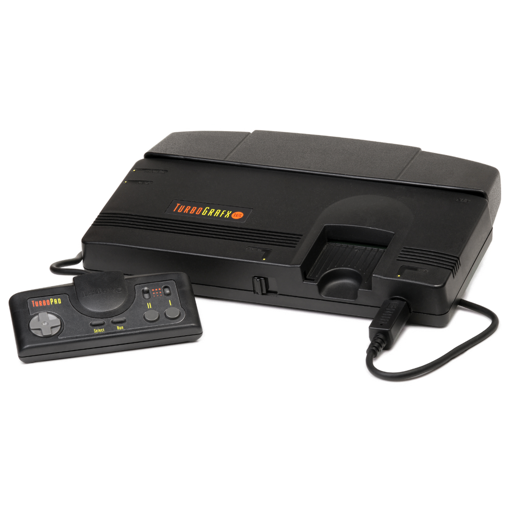
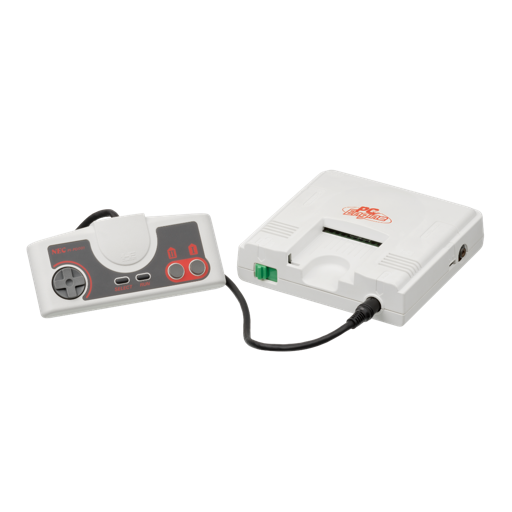
Style Cover Flow actions and rename over the dimmed game
The tabbed actions menu and rename keyboard clashed with Cover Flow's
minimal look. Render the action rows over a dimmed snapshot of the game
stage with the platinum selection (no footer; X toggles it closed), and
route the Display Name rename through cat_keyboard_ex with the same dimmed
backdrop and CF palette. Add PORTS, PCE and SEGACD system icons.

diff --git a/cmd/jawaka-launcher/main.c b/cmd/jawaka-launcher/main.c
@@ -3957,9 +3957,10 @@ static void jw__coverflow_frame_log(uint32_t frame_start_ms, uint32_t render_don
     }
 }
 
-static void jw__render_coverflow_games(jw_launcher_state *state) {
-    bool frame_log = jw__coverflow_frame_log_enabled();
-    uint32_t frame_start_ms = frame_log ? SDL_GetTicks() : 0;
+/* Draw the Cover Flow games stage — clear, card carousel, and the centered game
+   title — WITHOUT presenting. Shared by the games view and the actions overlay
+   (which dims this and floats the action list on top). */
+static void jw__draw_coverflow_games_stage(jw_launcher_state *state) {
     SDL_Renderer *ren = cat_get_renderer();
     int sw = cat_get_screen_width();
 
@@ -3968,9 +3969,6 @@ static void jw__render_coverflow_games(jw_launcher_state *state) {
 
     int count = state->game_count;
     if (count <= 0) {
-        uint32_t render_done_ms = frame_log ? SDL_GetTicks() : 0;
-        cat_present();
-        if (frame_log) jw__coverflow_frame_log(frame_start_ms, render_done_ms);
         return;
     }
     int cur = state->game_list.cursor;
@@ -3993,6 +3991,13 @@ static void jw__render_coverflow_games(jw_launcher_state *state) {
         if (nw > maxw) cat_draw_text_ellipsized(font, title, tx, ty, white, maxw);
         else           cat_draw_text(font, title, tx, ty, white);
     }
+}
+
+static void jw__render_coverflow_games(jw_launcher_state *state) {
+    bool frame_log = jw__coverflow_frame_log_enabled();
+    uint32_t frame_start_ms = frame_log ? SDL_GetTicks() : 0;
+
+    jw__draw_coverflow_games_stage(state);
 
     uint32_t render_done_ms = frame_log ? SDL_GetTicks() : 0;
     cat_present();
@@ -4831,7 +4836,84 @@ static int jw__actions_header_h(void) {
     return CAT_DS(34);
 }
 
+/* Cover Flow styling for the game actions menu. The tabbed box-model panel
+   clashes with Cover Flow's minimal look, so render the same action rows over
+   the near-black CF backdrop with the platinum-gray selection — matching the CF
+   search + keyboard. Full functionality, CF chrome. */
+static void jw__render_actions_cf(jw_launcher_state *state) {
+    SDL_Renderer *r = cat_get_renderer();
+    int sw = cat_get_screen_width();
+    int sh = cat_get_screen_height();
+    cat_draw_color white   = { 236, 238, 240, 255 };
+    cat_draw_color dim     = { 150, 154, 160, 255 };
+    cat_draw_color sel     = kCfSelect;
+    cat_draw_color seltext = { 12, 14, 18, 255 };
+    cat_draw_color selval  = { 58, 64, 72, 255 };
+
+    /* Backdrop: the live Cover Flow game stage, dimmed — the menu floats over the
+       game rather than replacing it. */
+    if (state->action_scope == JW_ACTION_GAME) {
+        jw__draw_coverflow_games_stage(state);
+    } else {
+        SDL_SetRenderDrawColor(r, 6, 7, 9, 255);
+        SDL_RenderClear(r);
+    }
+    SDL_SetRenderDrawBlendMode(r, SDL_BLENDMODE_BLEND);
+    SDL_SetRenderDrawColor(r, 0, 0, 0, 172);
+    SDL_RenderFillRect(r, NULL);
+
+    TTF_Font *small = cat_get_font(CAT_FONT_SMALL);
+    TTF_Font *body  = cat_get_font(CAT_FONT_MEDIUM);
+    TTF_Font *large = cat_get_font(CAT_FONT_LARGE);
+
+    int n = state->action_row_count;
+    if (n > 0) {
+        int cur = state->action_list.cursor;
+        if (cur < 0) cur = 0;
+        if (cur >= n) cur = n - 1;
+
+        int row_h   = TTF_FontHeight(body) + CAT_S(16);
+        int cell_h  = row_h - CAT_S(6);
+        int col_w   = sw - CAT_S(72);
+        int col_x   = (sw - col_w) / 2;
+        int top     = CAT_S(12) + TTF_FontHeight(large) + CAT_S(16);
+        int start_y = top + ((sh - top) - n * row_h) / 2;
+        if (start_y < top) start_y = top;
+
+        int val_w = col_w * 44 / 100;
+        int ttl_w = col_w - val_w - CAT_S(20);
+
+        for (int i = 0; i < n; i++) {
+            char title[96], value[160];
+            jw__action_row_strings(state, state->action_rows[i],
+                                   title, sizeof(title), value, sizeof(value));
+            bool s  = (i == cur);
+            int  ry = start_y + i * row_h;
+            if (s) {
+                cat_draw_rounded_rect(col_x - CAT_S(14), ry,
+                                      col_w + CAT_S(28), cell_h, CAT_S(8), sel);
+            }
+            int text_y = ry + (cell_h - TTF_FontHeight(body)) / 2;
+            cat_draw_text_ellipsized(body, title, col_x, text_y,
+                                     s ? seltext : white, ttl_w);
+            if (value[0]) {
+                int vw = cat_measure_text(small, value);
+                int vx = col_x + col_w - (vw < val_w ? vw : val_w);
+                int vy = ry + (cell_h - TTF_FontHeight(small)) / 2;
+                cat_draw_text_ellipsized(small, value, vx, vy,
+                                         s ? selval : dim, val_w);
+            }
+        }
+    }
+
+    cat_present();
+}
+
 static void jw__render_actions(const jw_launcher_state *state) {
+    if (cat_get_stylesheet()->launcher.layout == CAT_LAUNCHER_COVERFLOW) {
+        jw__render_actions_cf((jw_launcher_state *)state);
+        return;
+    }
     cat_clear_screen();
 
     ap_theme *theme = cat_get_theme();
@@ -6229,9 +6311,59 @@ static void jw__edit_action_display_name(const char *db_path,
         ? state->action_system_display
         : state->action_game.name;
     cat_keyboard_result result;
-    int rc = cat_keyboard(current,
+
+    /* Cover Flow: float the keyboard over a dimmed snapshot of the game stage,
+       dressed in the platinum CF palette — matching the CF actions overlay.
+       Other layouts fall through to the standard themed keyboard. */
+    SDL_Texture *cf_backdrop = NULL;
+    cat_theme *cf_theme = NULL;
+    cat_draw_color sv_hl = {0}, sv_hltxt = {0}, sv_accent = {0}, sv_hint = {0};
+    if (cat_get_stylesheet()->launcher.layout == CAT_LAUNCHER_COVERFLOW) {
+        SDL_Renderer *ren = cat_get_renderer();
+        int sw = cat_get_screen_width();
+        int sh = cat_get_screen_height();
+        cf_backdrop = SDL_CreateTexture(ren, SDL_PIXELFORMAT_RGBA8888,
+                                        SDL_TEXTUREACCESS_TARGET, sw, sh);
+        if (cf_backdrop) {
+            SDL_SetRenderTarget(ren, cf_backdrop);
+            if (state->action_scope == JW_ACTION_GAME) {
+                jw__draw_coverflow_games_stage(state);
+            } else {
+                SDL_SetRenderDrawColor(ren, 6, 7, 9, 255);
+                SDL_RenderClear(ren);
+            }
+            SDL_SetRenderDrawBlendMode(ren, SDL_BLENDMODE_BLEND);
+            SDL_SetRenderDrawColor(ren, 0, 0, 0, 172);
+            SDL_RenderFillRect(ren, NULL);
+            SDL_SetRenderTarget(ren, NULL);
+
+            cf_theme  = cat_get_theme();
+            sv_hl     = cf_theme->highlight;
+            sv_hltxt  = cf_theme->highlighted_text;
+            sv_accent = cf_theme->accent;
+            sv_hint   = cf_theme->hint;
+            cat_draw_color cf_sel     = kCfSelect;               /* selected key + input pill */
+            cat_draw_color cf_seltext = {  12,  14,  18, 255 };  /* dark text on the platinum pill */
+            cat_draw_color cf_keybg   = {  30,  34,  42, 255 };  /* unselected key bg */
+            cat_draw_color cf_keytxt  = { 236, 238, 240, 255 };  /* unselected key text */
+            cf_theme->highlight        = cf_sel;
+            cf_theme->highlighted_text = cf_seltext;
+            cf_theme->accent           = cf_keybg;
+            cf_theme->hint             = cf_keytxt;
+        }
+    }
+
+    int rc = cat_keyboard_ex(current,
                           "Start: Confirm\nY: Cancel\nLeave empty to reset",
-                          CAT_KB_GENERAL, &result);
+                          CAT_KB_GENERAL, cf_backdrop, &result);
+
+    if (cf_theme) {
+        cf_theme->highlight        = sv_hl;
+        cf_theme->highlighted_text = sv_hltxt;
+        cf_theme->accent           = sv_accent;
+        cf_theme->hint             = sv_hint;
+    }
+    if (cf_backdrop) SDL_DestroyTexture(cf_backdrop);
     if (rc == CAT_OK) {
         if (result.text[0]) {
             int write_rc = state->action_scope == JW_ACTION_SYSTEM
@@ -6442,6 +6574,7 @@ static void jw__handle_actions_input(const char *socket_path, const char *db_pat
         case CAT_BTN_A:
             jw__select_action_row(socket_path, db_path, state, running);
             break;
+        case CAT_BTN_X:   /* X opened the menu; let it toggle closed too */
         case CAT_BTN_B:
             state->actions_open = false;
             state->action_scope = JW_ACTION_NONE;